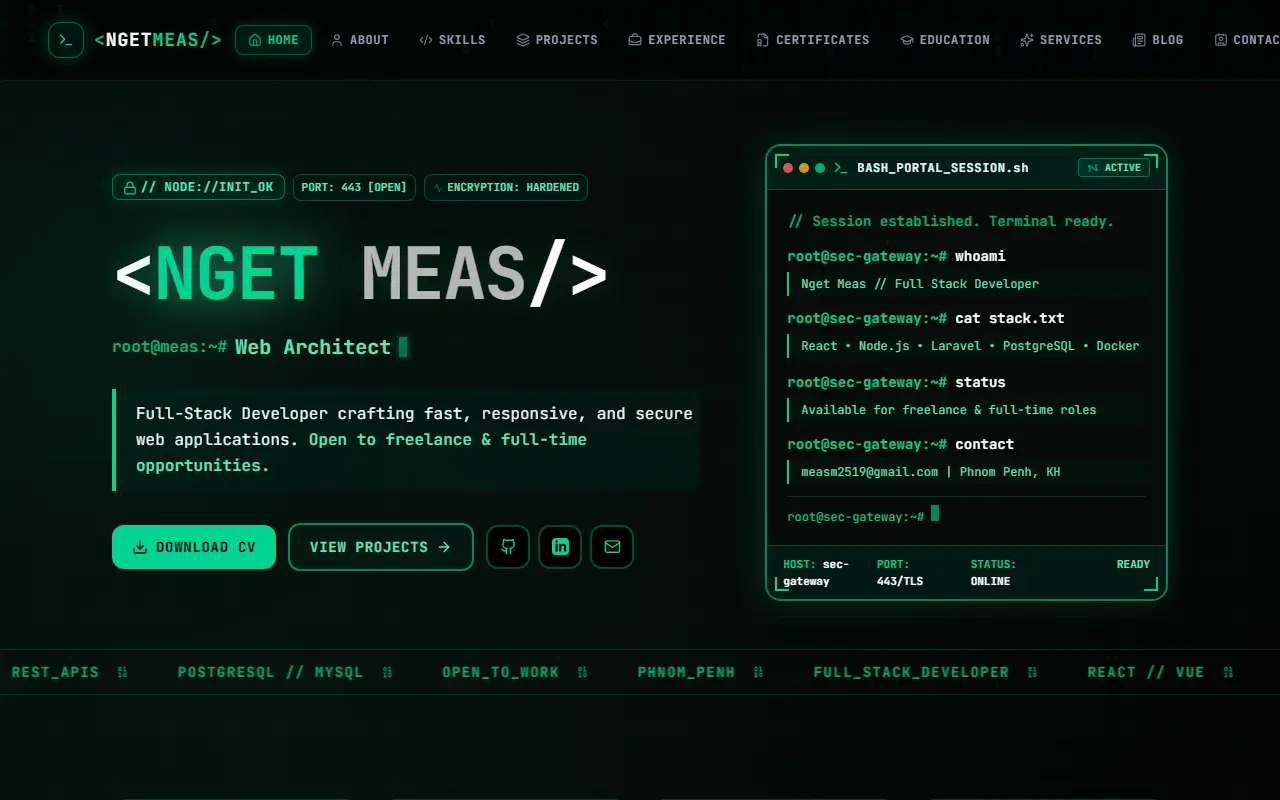
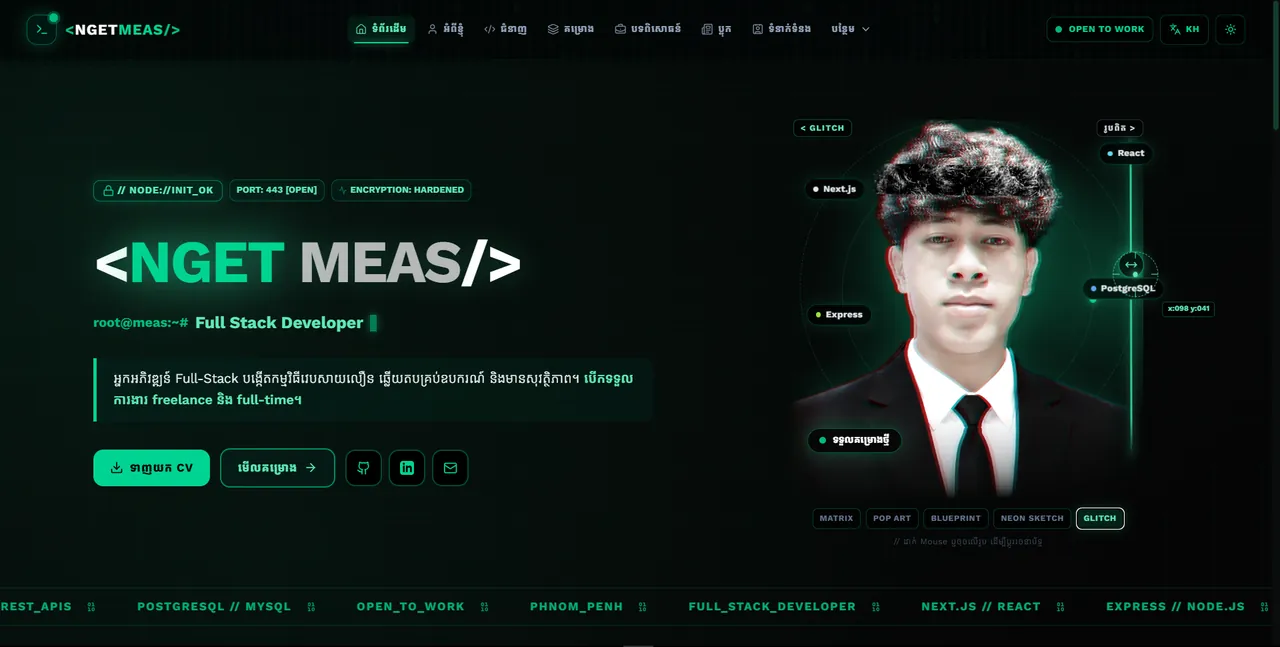
update

diff --git a/src/components/Navbar/Navbar.jsx b/src/components/Navbar/Navbar.jsx
@@ -2,7 +2,6 @@ import { useState, useEffect, useRef } from 'react';
 import { NavLink, useLocation } from 'react-router-dom';
 import {
   BriefcaseBusiness,
-  ChevronDown,
   Code2,
   Contact,
   FileBadge,
@@ -22,25 +21,18 @@ import {
 import { useLanguage } from '../../hooks/useLanguage.jsx';
 import { useTheme } from '../../hooks/useTheme.jsx';
 
-// Shown directly in the desktop bar
-const primaryNav = [
+const navItems = [
   { to: '/', label: 'home', end: true, icon: HomeIcon },
   { to: '/about', label: 'about', icon: User },
   { to: '/skills', label: 'skills', icon: Code2 },
   { to: '/projects', label: 'projects', icon: Layers3 },
   { to: '/experience', label: 'experience', icon: BriefcaseBusiness },
-  { to: '/blog', label: 'blog', icon: Newspaper },
-  { to: '/contact', label: 'contact', icon: Contact },
-];
-
-// Grouped under the desktop "More" dropdown
-const moreNav = [
   { to: '/services', label: 'services', icon: Sparkles },
   { to: '/certificates', label: 'certificates', icon: FileBadge },
   { to: '/education', label: 'education', icon: GraduationCap },
+  { to: '/blog', label: 'blog', icon: Newspaper },
+  { to: '/contact', label: 'contact', icon: Contact },
 ];
-
-const allNav = [...primaryNav, ...moreNav];
 
 const languages = [
   { id: 'en', label: 'English', hint: 'EN' },
@@ -115,10 +107,8 @@ function MatrixBackground({ isDark }) {
 
 export default function Navbar() {
   const [isOpen, setIsOpen] = useState(false);
-  const [moreOpen, setMoreOpen] = useState(false);
   const [scrolled, setScrolled] = useState(false);
   const [progress, setProgress] = useState(0);
-  const moreRef = useRef(null);
   const location = useLocation();
 
   const langContext = useLanguage();
@@ -158,7 +148,6 @@ export default function Navbar() {
   if (lastPath !== location.pathname) {
     setLastPath(location.pathname);
     setIsOpen(false);
-    setMoreOpen(false);
   }
 
   useEffect(() => {
@@ -169,30 +158,15 @@ export default function Navbar() {
   }, [isOpen]);
 
   useEffect(() => {
-    const handleClickOutside = (event) => {
-      if (moreRef.current && !moreRef.current.contains(event.target)) {
-        setMoreOpen(false);
-      }
-    };
     const handleKey = (event) => {
-      if (event.key === 'Escape') {
-        setMoreOpen(false);
-        setIsOpen(false);
-      }
+      if (event.key === 'Escape') setIsOpen(false);
     };
-    document.addEventListener('mousedown', handleClickOutside);
     document.addEventListener('keydown', handleKey);
-    return () => {
-      document.removeEventListener('mousedown', handleClickOutside);
-      document.removeEventListener('keydown', handleKey);
-    };
+    return () => document.removeEventListener('keydown', handleKey);
   }, []);
 
   const toggleLanguage = () => setLanguage?.(language === 'en' ? 'kh' : 'en');
   const toggleTheme = () => setTheme?.(isDark ? 'light' : 'dark');
-
-  const moreActive = moreNav.some((item) => location.pathname.startsWith(item.to));
-  const activeMore = moreNav.find((item) => location.pathname.startsWith(item.to));
 
   const headerClass = scrolled
     ? isDark
@@ -209,7 +183,7 @@ export default function Navbar() {
   }`;
 
   const desktopLinkClass = (isActive) =>
-    `group relative inline-flex items-center gap-1.5 rounded-lg px-2 xl:px-2.5 py-2 text-[11px] xl:text-xs font-bold font-mono uppercase tracking-wider whitespace-nowrap transition-colors duration-150 cursor-pointer ${
+    `group relative inline-flex items-center gap-1.5 rounded-lg px-2 2xl:px-2.5 py-2 text-[11px] 2xl:text-xs font-bold font-mono uppercase tracking-wider whitespace-nowrap transition-colors duration-150 cursor-pointer ${
       isActive
         ? isDark
           ? 'text-emerald-300 bg-emerald-500/10'
@@ -276,8 +250,8 @@ export default function Navbar() {
           </NavLink>
 
           {/* DESKTOP NAVIGATION */}
-          <div className="z-10 hidden min-w-0 items-center gap-0.5 lg:flex xl:gap-1">
-            {primaryNav.map((item) => {
+          <div className="z-10 hidden min-w-0 items-center gap-0.5 xl:flex 2xl:gap-1">
+            {navItems.map((item) => {
               const Icon = item.icon;
               return (
                 <NavLink
@@ -288,7 +262,7 @@ export default function Navbar() {
                 >
                   {({ isActive }) => (
                     <>
-                      <Icon className="hidden h-3.5 w-3.5 opacity-80 xl:block" />
+                      <Icon className="hidden h-3.5 w-3.5 opacity-80 2xl:block" />
                       {label(item.label)}
                       {activeBar(isActive)}
                     </>
@@ -296,63 +270,6 @@ export default function Navbar() {
                 </NavLink>
               );
             })}
-
-            {/* MORE DROPDOWN */}
-            <div ref={moreRef} className="relative">
-              <button
-                type="button"
-                onClick={() => setMoreOpen((prev) => !prev)}
-                className={desktopLinkClass(moreActive)}
-                aria-expanded={moreOpen}
-                aria-haspopup="menu"
-              >
-                {activeMore ? label(activeMore.label) : label('more')}
-                <ChevronDown className={`h-3.5 w-3.5 transition-transform duration-200 ${moreOpen ? 'rotate-180' : ''}`} />
-                {activeBar(moreActive)}
-              </button>
-
-              <div
-                role="menu"
-                className={`absolute right-0 top-full mt-3 w-60 origin-top-right rounded-xl border p-1.5 font-mono transition-all duration-150 ${
-                  moreOpen ? 'visible scale-100 opacity-100' : 'invisible scale-95 opacity-0'
-                } ${
-                  isDark
-                    ? 'border-emerald-500/30 bg-[#030504]/95 shadow-[0_10px_40px_rgba(0,0,0,0.9)] backdrop-blur-xl'
-                    : 'border-emerald-200 bg-white shadow-xl'
-                }`}
-              >
-                {moreNav.map((item) => {
-                  const Icon = item.icon;
-                  return (
-                    <NavLink
-                      key={item.to}
-                      to={item.to}
-                      role="menuitem"
-                      className={({ isActive }) =>
-                        `flex items-center gap-3 rounded-lg px-3 py-2.5 text-xs font-bold uppercase tracking-wider transition-colors ${
-                          isActive
-                            ? isDark
-                              ? 'bg-emerald-500/10 text-emerald-300'
-                              : 'bg-emerald-50 text-emerald-800'
-                            : isDark
-                              ? 'text-slate-400 hover:bg-emerald-500/5 hover:text-emerald-300'
-                              : 'text-slate-600 hover:bg-emerald-50 hover:text-emerald-800'
-                        }`
-                      }
-                    >
-                      <span
-                        className={`flex h-7 w-7 items-center justify-center rounded-md border ${
-                          isDark ? 'border-emerald-500/25 bg-emerald-950/40' : 'border-emerald-200 bg-emerald-50'
-                        }`}
-                      >
-                        <Icon className="h-3.5 w-3.5" />
-                      </span>
-                      {label(item.label)}
-                    </NavLink>
-                  );
-                })}
-              </div>
-            </div>
           </div>
 
           {/* CONTROLS */}
@@ -390,7 +307,7 @@ export default function Navbar() {
             <button
               type="button"
               onClick={() => setIsOpen(true)}
-              className={`${iconButtonClass} w-9 px-0 lg:hidden`}
+              className={`${iconButtonClass} w-9 px-0 xl:hidden`}
               aria-label="Open navigation"
               aria-expanded={isOpen}
             >
@@ -412,7 +329,7 @@ export default function Navbar() {
 
       {/* MOBILE DRAWER */}
       <div
-        className={`fixed inset-0 z-60 transition-opacity duration-300 lg:hidden ${
+        className={`fixed inset-0 z-60 transition-opacity duration-300 xl:hidden ${
           isOpen ? 'pointer-events-auto opacity-100' : 'pointer-events-none opacity-0'
         }`}
         aria-hidden={!isOpen}
@@ -444,7 +361,7 @@ export default function Navbar() {
           <div className="flex-1 overflow-y-auto px-4 py-4">
             <p className="mb-2 px-2 text-[10px] font-bold uppercase tracking-widest text-emerald-600">{'// navigate'}</p>
             <div className="space-y-1">
-              {allNav.map((item, i) => {
+              {navItems.map((item, i) => {
                 const Icon = item.icon;
                 return (
                   <NavLink

diff --git a/src/data/projects.js b/src/data/projects.js
@@ -90,8 +90,8 @@ export const projects = [
     descriptionKh: 'សៀវភៅកត់ត្រាចំណូលចំណាយដោយ AI សម្រាប់អាជីវកម្មខ្នាតតូចនៅកម្ពុជា ដែលស្កេនវិក្កយបត្រជាមួយ Google Gemini និងកត់ត្រាជាដុល្លារ និងរៀល។',
     problem: 'Small shop owners still record sales and expenses by hand, which is slow, error-prone, and makes dual-currency (USD/KHR) bookkeeping difficult.',
     problemKh: 'ម្ចាស់ហាងតូចៗនៅតែកត់ត្រាចំណូលចំណាយដោយដៃ ដែលយឺត ងាយខុស និងពិបាកគ្រប់គ្រងរូបិយប័ណ្ណពីរ (ដុល្លារ/រៀល)។',
-    solution: 'Built a React + TypeScript client served by an Express API on PostgreSQL. Receipts are photographed and parsed by Gemini into structured ledger entries with categories, VAT, and an AI explanation.',
-    solutionKh: 'បានបង្កើតកម្មវិធី React + TypeScript ជាមួយ Express API និង PostgreSQL។ វិក្កយបត្រត្រូវបានថតរូប ហើយ Gemini បំប្លែងទៅជាទិន្នន័យកត់ត្រា ដែលមានប្រភេទ VAT និងការពន្យល់ពី AI។',
+    solution: 'Built a Next.js + TypeScript frontend backed by an Express API on PostgreSQL. Receipts are photographed and parsed by Gemini into structured ledger entries with categories, VAT, and an AI explanation.',
+    solutionKh: 'បានបង្កើតកម្មវិធី Next.js + TypeScript ជាមួយ Express API និង PostgreSQL។ វិក្កយបត្រត្រូវបានថតរូប ហើយ Gemini បំប្លែងទៅជាទិន្នន័យកត់ត្រា ដែលមានប្រភេទ VAT និងការពន្យល់ពី AI។',
     features: [
       'Receipt photo scanning and data extraction with Gemini AI',
       'Dual-currency ledger (USD / KHR) with live exchange rate',
@@ -106,10 +106,10 @@ export const projects = [
       'ផ្ទាំងសង្ខេប ប្រវត្តិប្រតិបត្តិការ និងការជូនដំណឹង',
       'ចំណុចប្រទាក់ភាសាខ្មែរ ងាយប្រើលើទូរស័ព្ទ'
     ],
-    technologies: ['React', 'TypeScript', 'Vite', 'Express.js', 'PostgreSQL', 'Gemini AI', 'JWT', 'Tailwind CSS', 'Render'],
+    technologies: ['Next.js', 'TypeScript', 'Express.js', 'PostgreSQL', 'Gemini AI', 'JWT', 'Tailwind CSS', 'Render'],
     github: 'https://github.com/NgetMeas22',
     live: 'https://ai-ledger-one.vercel.app',
-    category: ['React', 'Express', 'PostgreSQL', 'AI', 'Full Stack'],
+    category: ['Next.js', 'Express', 'PostgreSQL', 'AI', 'Full Stack'],
     isTeamProject: false,
     featured: true,
     year: '2026'
